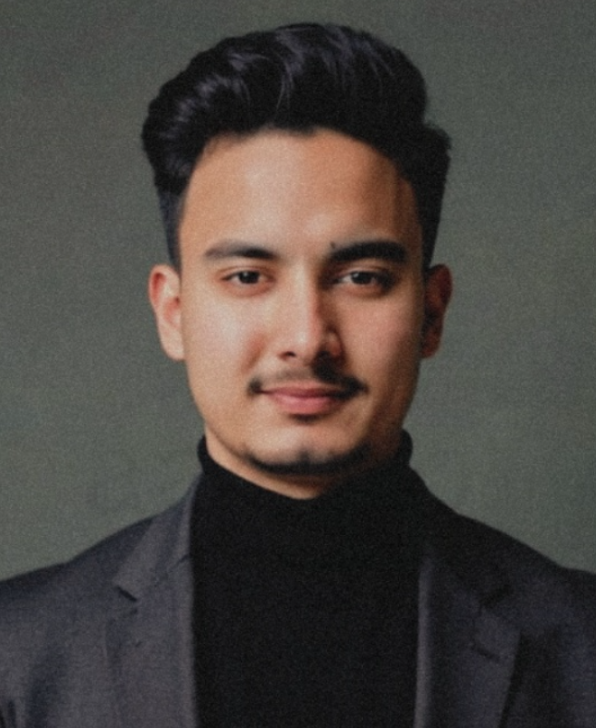
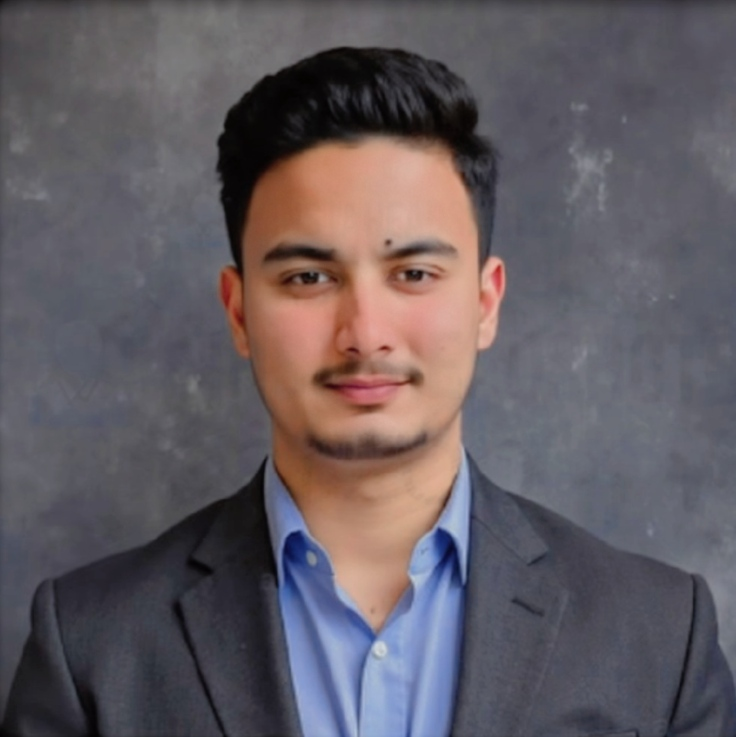
Image resizing

diff --git a/src/sections/About.jsx b/src/sections/About.jsx
@@ -93,7 +93,7 @@ function FounderCard({ member, index }) {
           <img
             src={member.image}
             alt={member.name}
-            className="founder-photo"
+            className={`founder-photo founder-photo-${member.initials.toLowerCase()}`}
             onError={() => setImgError(true)}
           />
         ) : (
@@ -104,10 +104,6 @@ function FounderCard({ member, index }) {
             </div>
           </div>
         )}
-
-        <span className="founder-number-badge">
-          {String(index + 1).padStart(2, "0")}
-        </span>
 
         <span className="founder-role-badge">
           {member.role}
@@ -234,7 +230,6 @@ function About() {
                   <div className="about-approach-icon">
                     <Compass size={22} strokeWidth={1.8} />
                   </div>
-                  <span className="about-approach-num">01</span>
                 </div>
 
                 <h4>Understand the problem.</h4>
@@ -252,7 +247,6 @@ function About() {
                   <div className="about-approach-icon">
                     <Cpu size={22} strokeWidth={1.8} />
                   </div>
-                  <span className="about-approach-num">02</span>
                 </div>
 
                 <h4>Engineer the intelligence.</h4>
@@ -270,7 +264,6 @@ function About() {
                   <div className="about-approach-icon">
                     <Rocket size={22} strokeWidth={1.8} />
                   </div>
-                  <span className="about-approach-num">03</span>
                 </div>
 
                 <h4>Build what matters.</h4>
@@ -345,7 +338,7 @@ function About() {
             <div className="team-partition-header">
               <div className="team-partition-badge">
                 <Award size={15} />
-                <span>01 • LEADERSHIP</span>
+                <span>LEADERSHIP</span>
               </div>
               <div className="team-partition-titles">
                 <h3>Founders & Co-Founders</h3>
@@ -369,7 +362,7 @@ function About() {
             <div className="team-partition-header">
               <div className="team-partition-badge">
                 <Code2 size={15} />
-                <span>02 • ENGINEERING TEAM</span>
+                <span>ENGINEERING TEAM</span>
               </div>
               <div className="team-partition-titles">
                 <h3>Developers & Engineers</h3>
@@ -397,10 +390,6 @@ function About() {
                   <div className="developer-card-top">
                     <div className="team-avatar">
                       {member.initials}
-                    </div>
-
-                    <div className="team-number">
-                      {String(index + 1).padStart(2, "0")}
                     </div>
                   </div>
 

diff --git a/src/styles/about.css b/src/styles/about.css
@@ -523,7 +523,7 @@
 .founder-image-box {
   position: relative;
   width: 100%;
-  height: 255px;
+  height: 290px;
   border-radius: 14px;
   overflow: hidden;
   background: linear-gradient(145deg, #43051f 0%, #670a32 55%, #9e1649 100%);
@@ -534,13 +534,26 @@
   width: 100%;
   height: 100%;
   object-fit: cover;
-  object-position: center 15%;
   display: block;
   transition: transform 0.45s ease;
 }
 
+.founder-photo-rj {
+  object-position: center 10%;
+}
+
+.founder-photo-kj {
+  object-fit: cover;
+  object-position: center 10%;
+}
+
+.founder-photo-aj {
+  object-fit: cover;
+  object-position: center 10%;
+}
+
 .founder-card:hover .founder-photo {
-  transform: scale(1.04);
+  transform: none;
 }
 
 .founder-photo-placeholder {
@@ -820,7 +833,7 @@
   }
 
   .founder-image-box {
-    height: 210px;
+    height: 270px;
   }
 
   .team-grid {

diff --git a/src/sections/Features.jsx b/src/sections/Features.jsx
@@ -188,10 +188,6 @@ const Features = () => {
                   <div className="service-icon">
                     <Icon size={18} strokeWidth={1.8} />
                   </div>
-
-                  <span className="service-number">
-                    {String(index + 1).padStart(2, "0")}
-                  </span>
                 </div>
 
                 <div className="service-content">

diff --git a/src/sections/Process.jsx b/src/sections/Process.jsx
@@ -126,10 +126,6 @@ const Technology = () => {
               >
                 <div className="process-step-top">
 
-                  <span className="process-step-number">
-                    {step.number}
-                  </span>
-
                   <div className="process-step-icon">
                     <Icon
                       size={23}

diff --git a/src/sections/Testimonials.jsx b/src/sections/Testimonials.jsx
@@ -86,10 +86,6 @@ const Testimonials = () => {
                   size={25}
                   strokeWidth={1.5}
                 />
-
-                <span>
-                  0{index + 1}
-                </span>
               </div>
 
               <p className="testimonial-quote">
